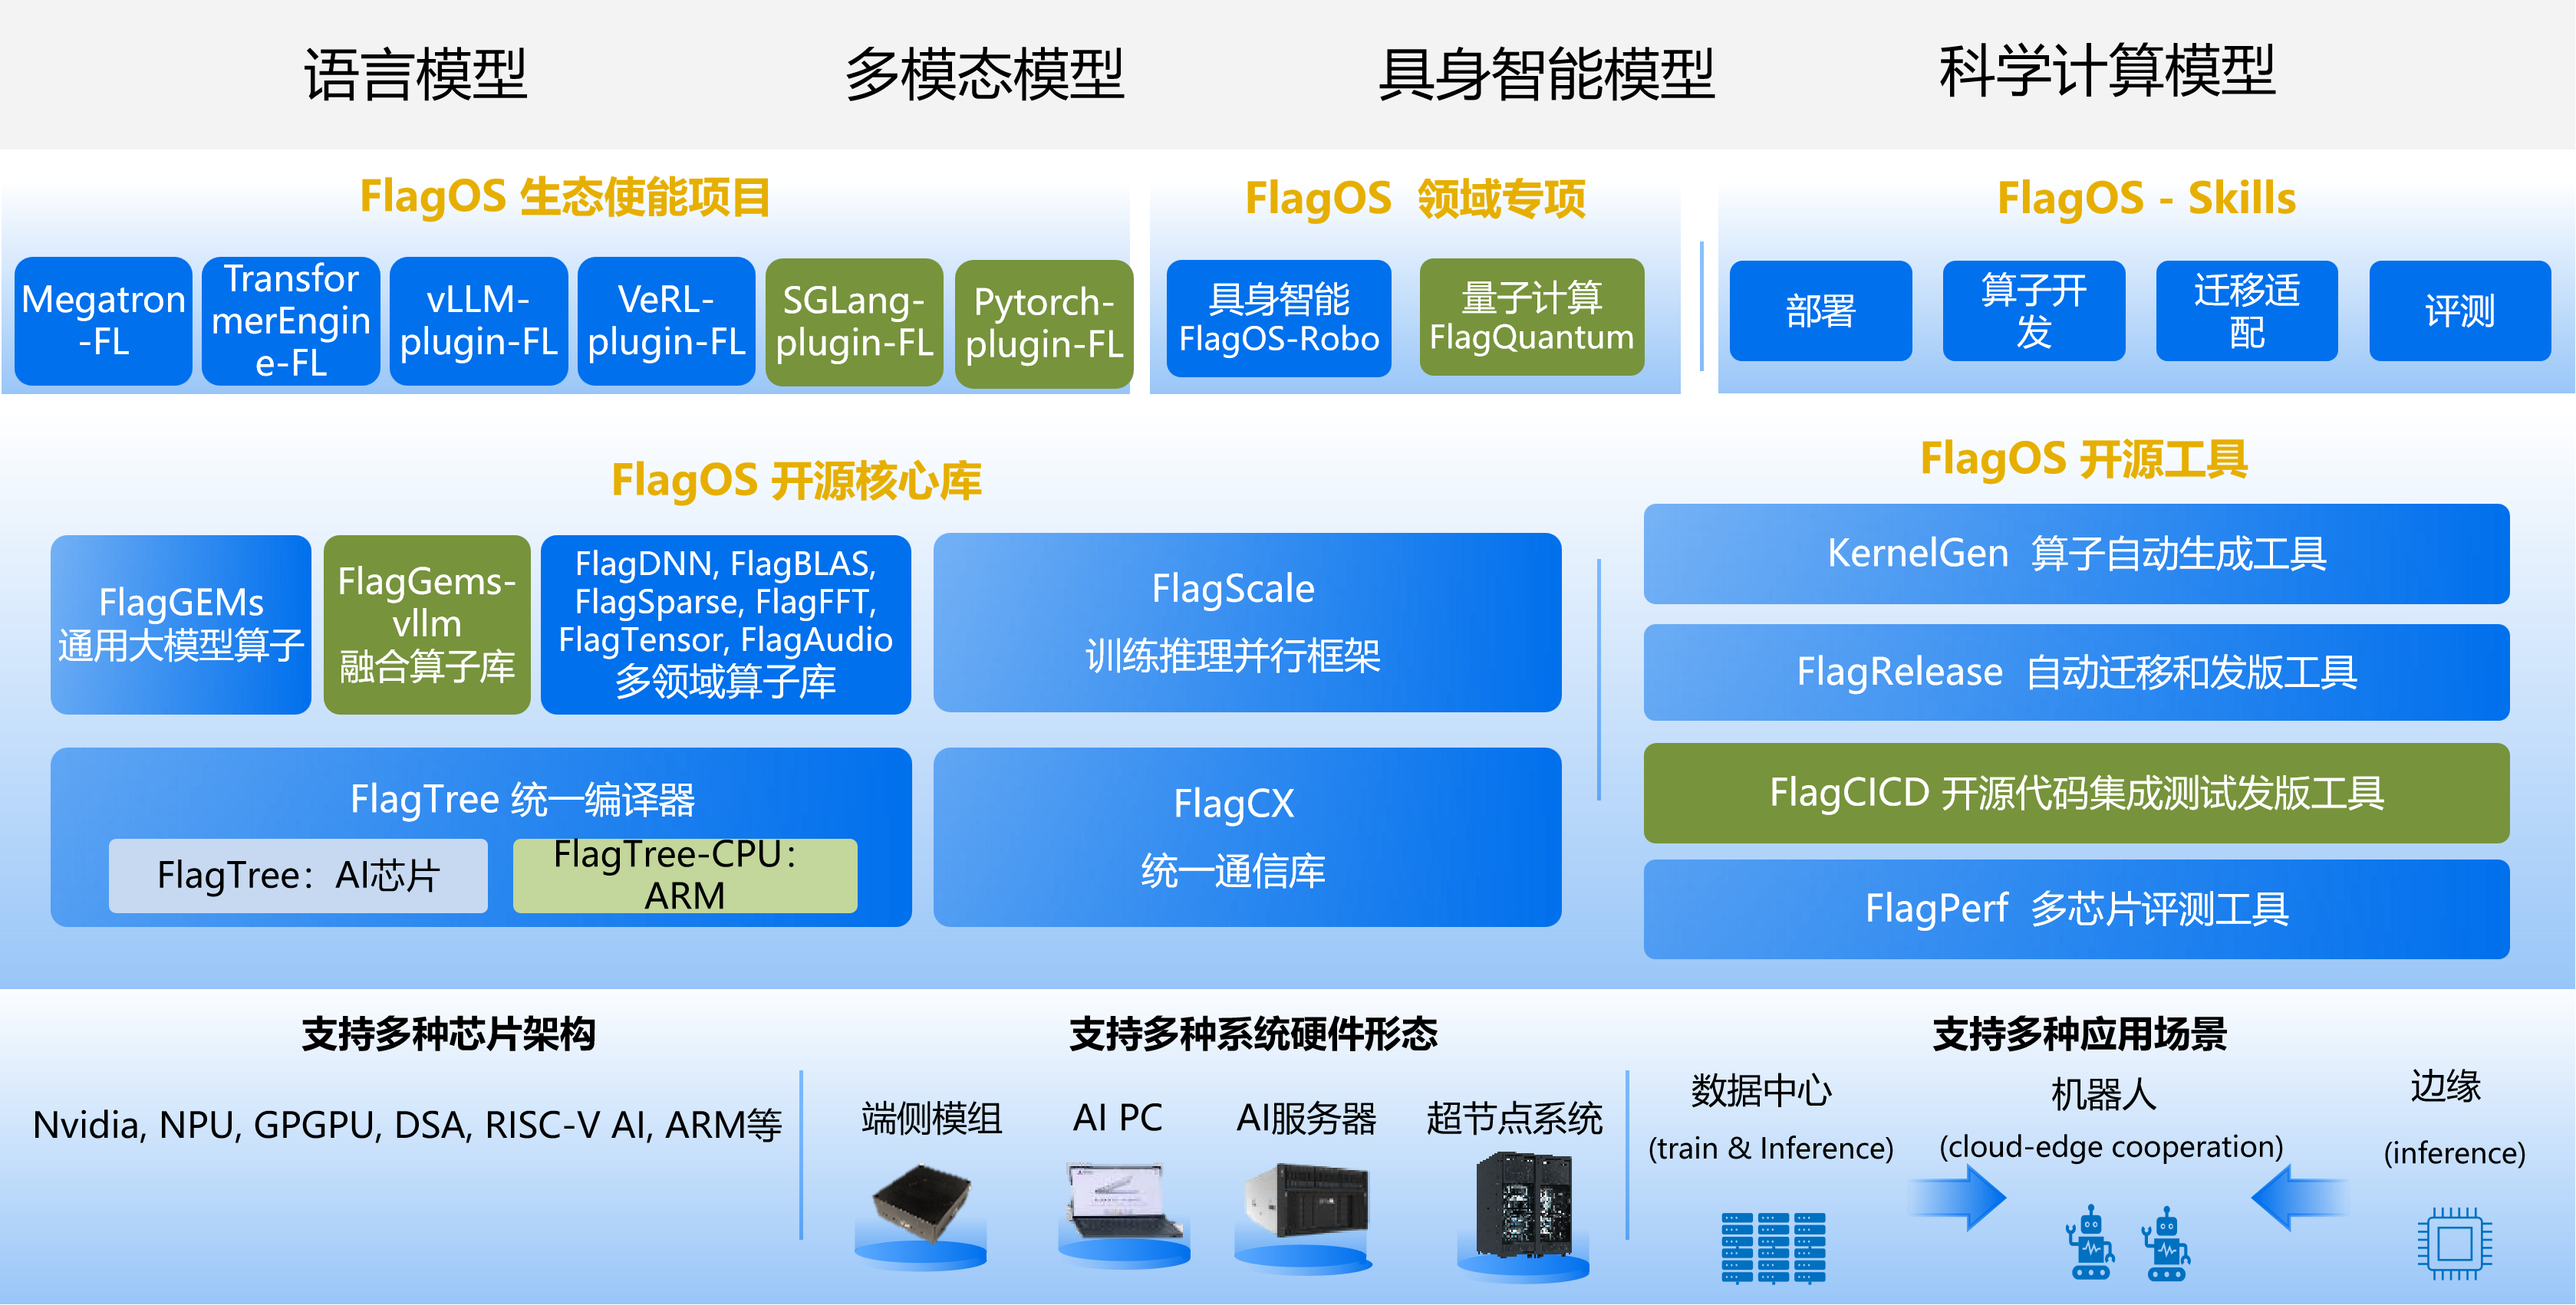
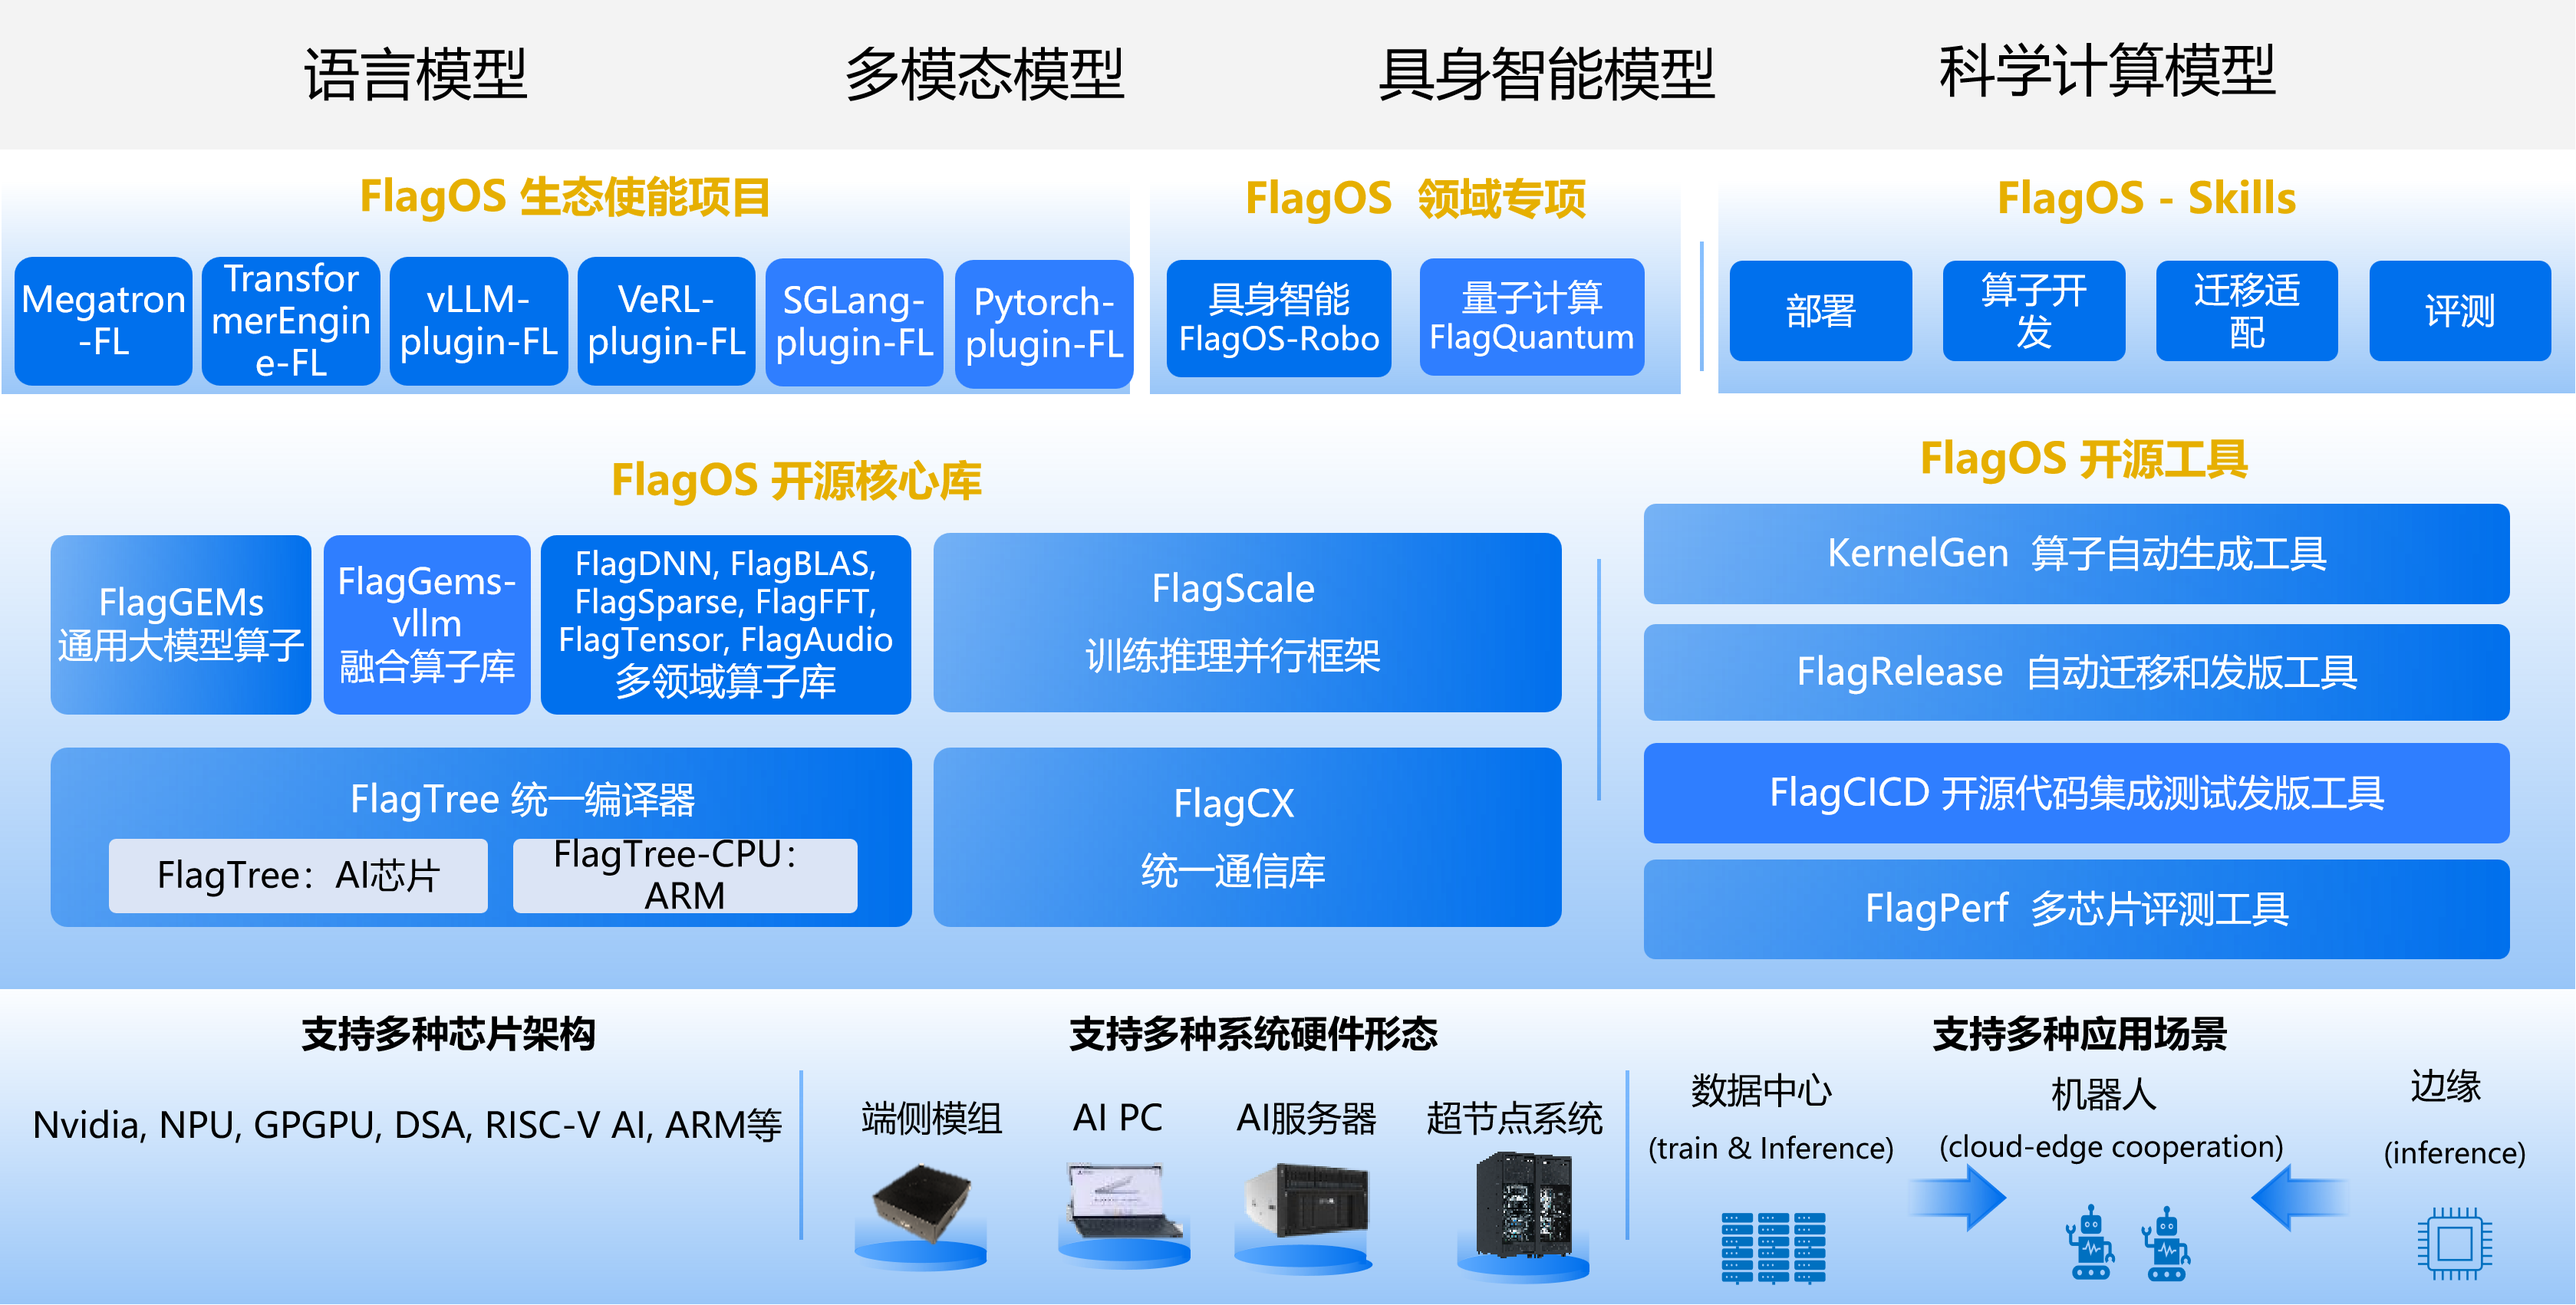
Updated overview pictures and versions

diff --git a/docs/flagos_en/overview.md b/docs/flagos_en/overview.md
@@ -74,15 +74,15 @@ The FlagOS ecosystem enablement layer adopts a plugin architecture composed of t
 
   PyTorch-Plugin-FL is a custom PyTorch device plugin based on the PrivateUse1 extension mechanism, registering FlagGems high-performance Triton operators as the flagos device backend for unified multi-chip support.
 
-- **Megatron-LM-FL** (v0.1.0)
+- **Megatron-LM-FL** (v0.2.0)
 
   Megatron-LM-FL extends the distributed training capabilities of Megatron-LM to diverse AI chips, supporting scalable large-model training across heterogeneous hardware.
 
-- **TransformerEngine-FL** (v0.1.0)
+- **TransformerEngine-FL** (v0.2.0)
 
   TransformerEngine-FL extends the transformer acceleration capabilities of Transformer Engine to diverse AI chips, enabling hardware-agnostic training acceleration.
 
-- **verl-FL** (v0.1.0)
+- **verl-FL** (v0.2.0)
 
   verl-FL extends the reinforcement learning capabilities of veRL to diverse AI chips, broadening the hardware coverage for RL-based training workflows.
 
